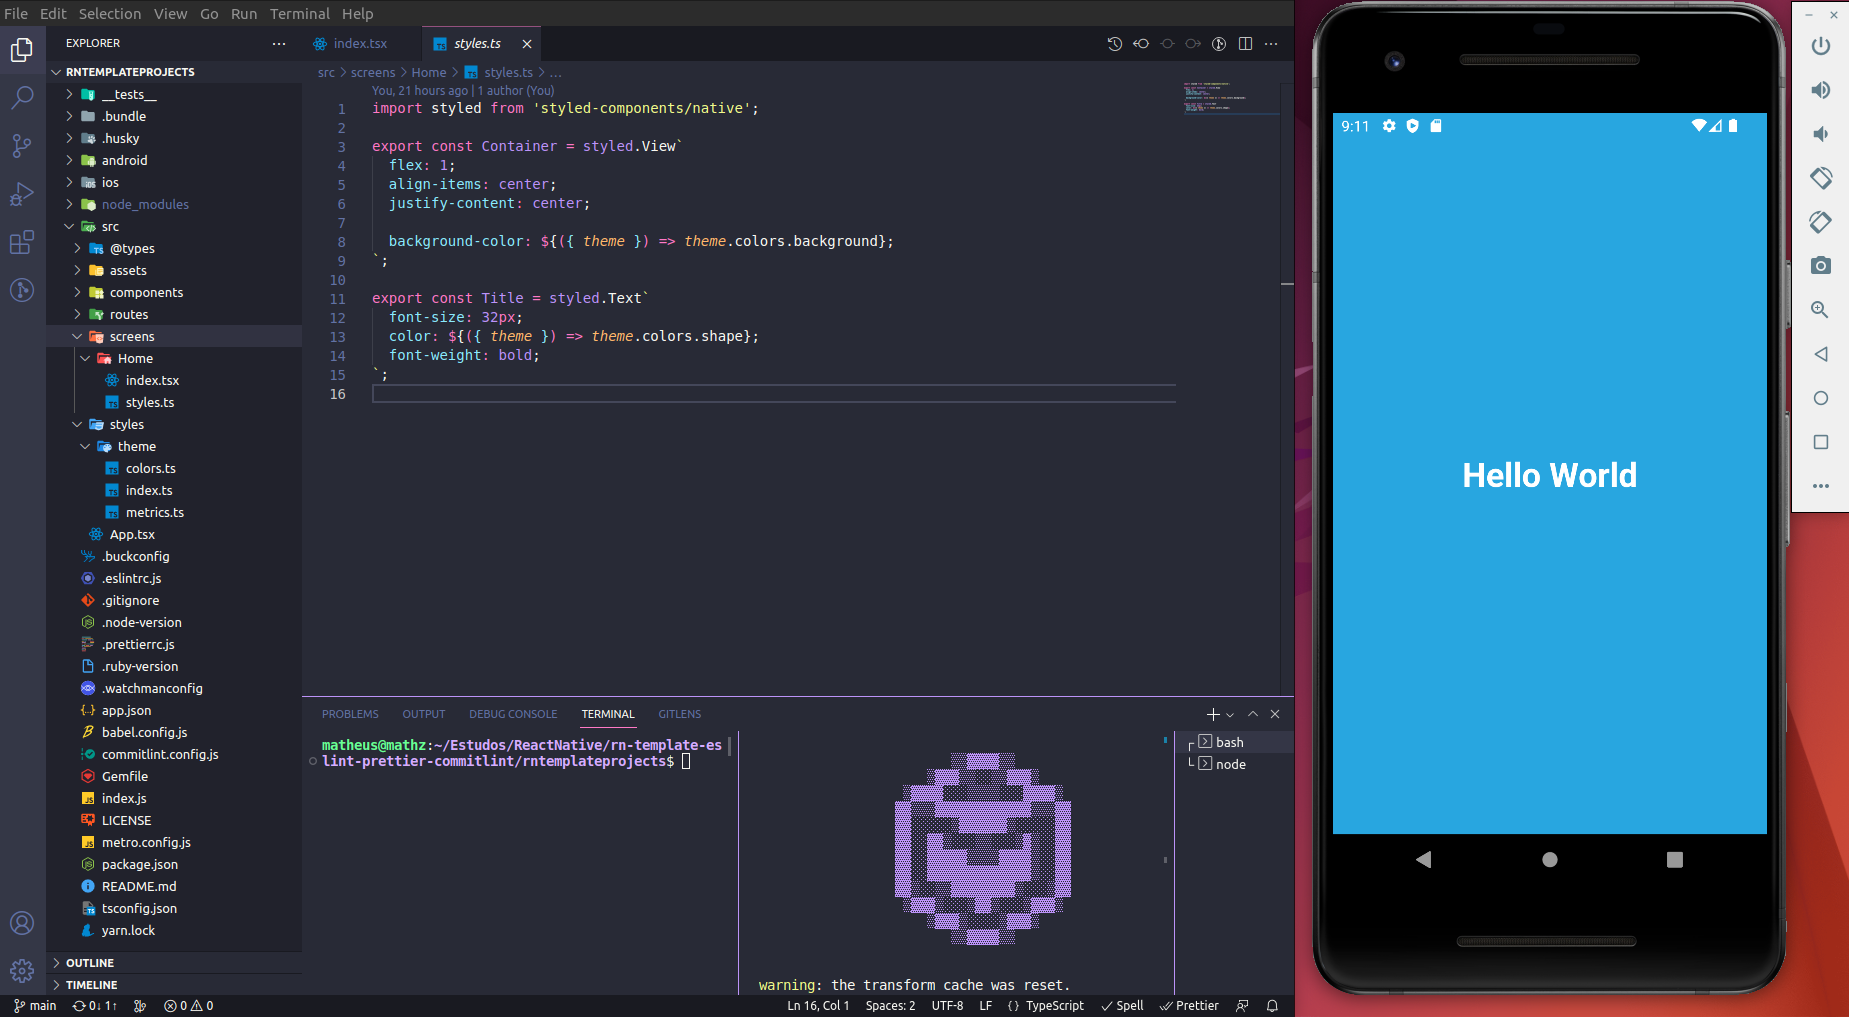
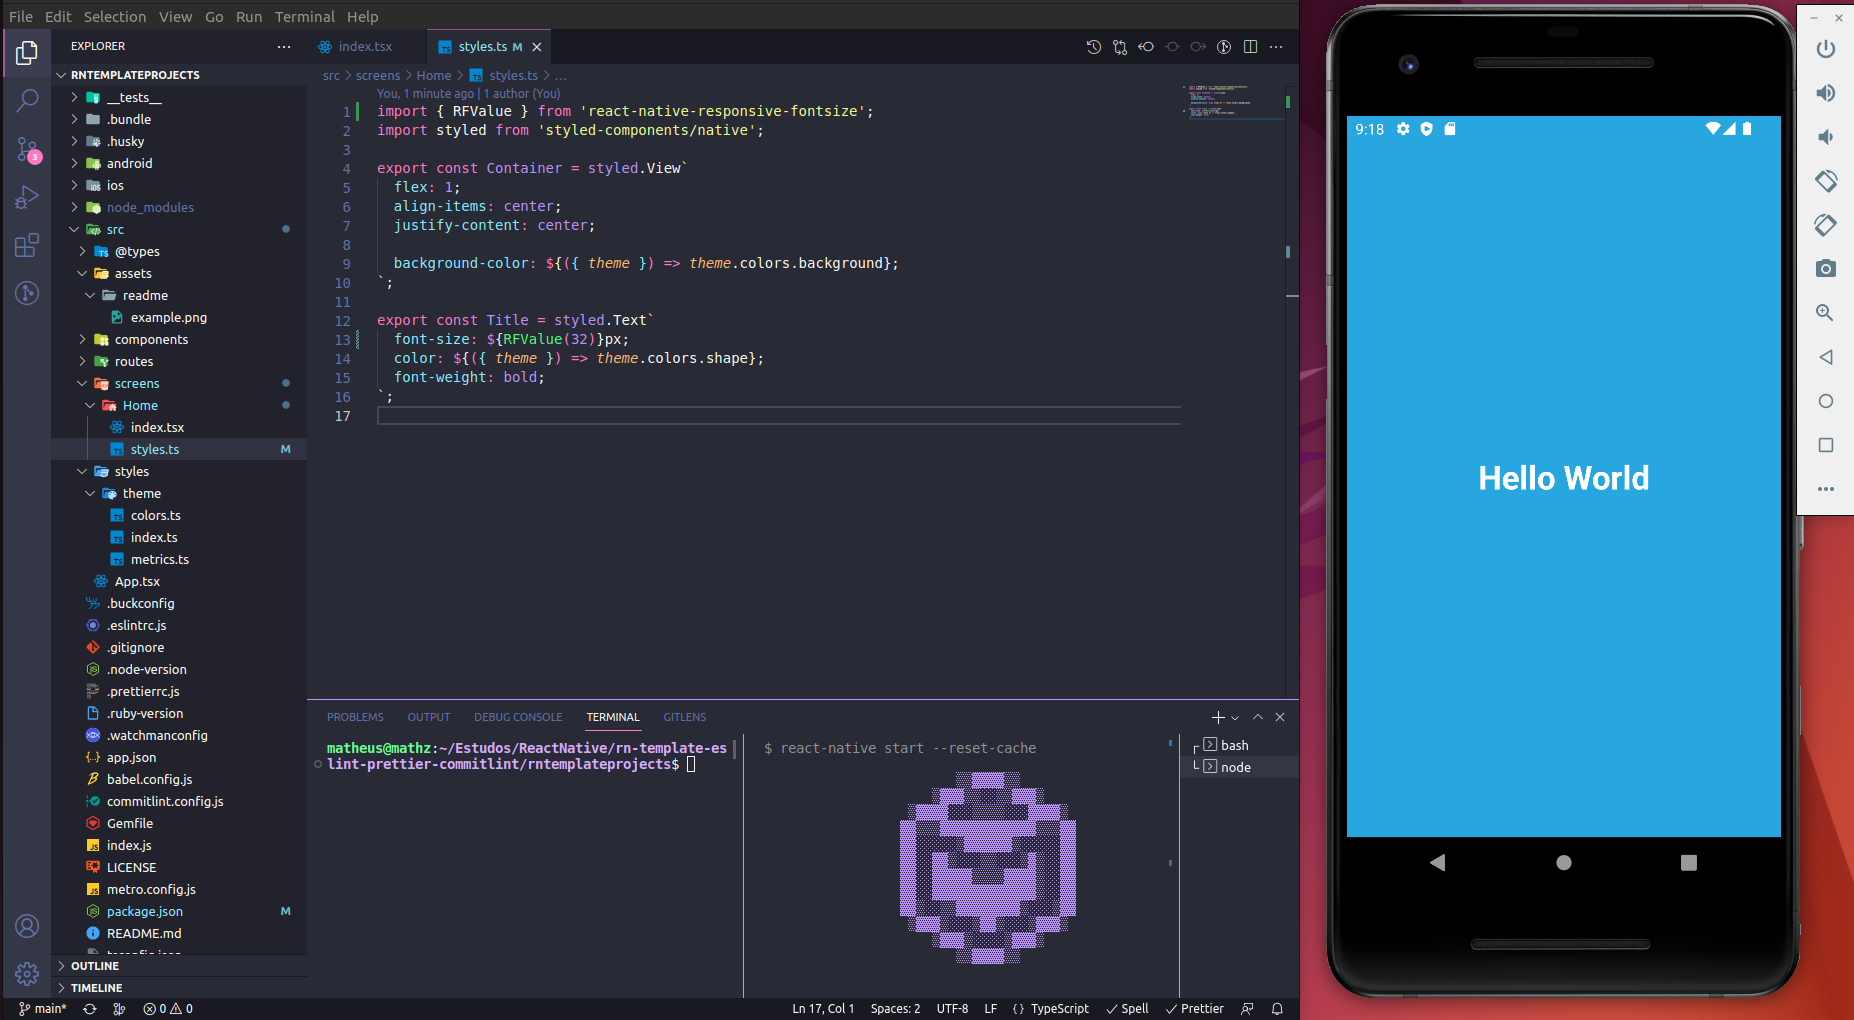
fix: change image, add responsive-fontsize

diff --git a/src/screens/Home/styles.ts b/src/screens/Home/styles.ts
@@ -1,3 +1,4 @@
+import { RFValue } from 'react-native-responsive-fontsize';
 import styled from 'styled-components/native';
 
 export const Container = styled.View`
@@ -9,7 +10,7 @@ export const Container = styled.View`
 `;
 
 export const Title = styled.Text`
-  font-size: 32px;
+  font-size: ${RFValue(32)}px;
   color: ${({ theme }) => theme.colors.shape};
   font-weight: bold;
 `;
